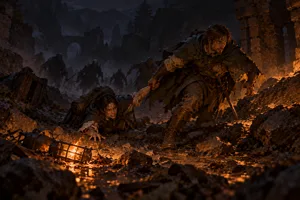
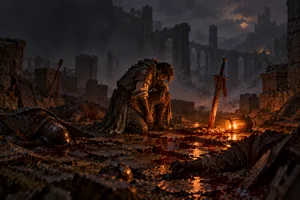
Re-pitch the difficulty cards: Hard moves up, Deadly gets an aftermath
The four escalated too gently. The old Hard was a camp after a bad day, which
reads as tired rather than dangerous, and Deadly was one figure dragging another
clear — alarming, but everyone in it is still alive.

Everything shifts one notch. The dragging-clear scene is Hard now, where it fits
better than it ever did at the top, and Deadly is the aftermath: a survivor on one
knee among the fallen, blood running in the cracks between the stones, the sword
left standing where it was driven in, a toppled lantern still burning as the only
light. Grim and exhausted rather than gory, because the weight of it belongs in
the posture and the emptiness rather than the detail.

Generated back in the scene deck's own conversation so it carries the same shared
block as the other three, rather than matching them by eye afterwards.

The camp scene is dropped — a good picture with no slot left.

Claude-Session: https://claude.ai/code/session_01MHv1tqcgpyySy1GV2gbWz2

diff --git a/playtests/2026-10-01-portrait-grids.md b/playtests/2026-10-01-portrait-grids.md
@@ -36,3 +36,17 @@ every name and every line of prose stayed exactly as it was and only the files c
 
 16 in one picture is 313 px a cell, comfortably over the 256 px stored, so the replacements
 are if anything sharper than the batches of 25. The library now reads as one set.
+
+## Difficulty, re-pitched
+
+The four difficulty cards escalated too gently: the old Hard was a camp after a bad day,
+which reads as tired rather than dangerous, and Deadly was one figure dragging another
+clear — alarming, but survivable-looking.
+
+Shifted one notch. The dragging-clear scene is Hard now, and Deadly is the aftermath: a
+survivor on one knee among the fallen, blood running in the cracks between the stones, the
+sword left standing where it was driven in, a toppled lantern as the only light. Grim and
+exhausted rather than gory — the weight is in the posture, not the detail.
+
+The camp scene is dropped. It is a good picture that no longer has a slot, which is the
+usual way art gets retired here.
